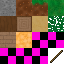
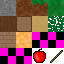
oka

Changed region(s): [[0.5, 0.75, 0.75, 1.0]]

diff --git a/src/rustcraft/game_loop.rs b/src/rustcraft/game_loop.rs
@@ -21,6 +21,10 @@ use crate::prelude::*;
 const TICK_DURATION: Duration = Duration::from_millis(50);
 /// Number of random ticks per chunk per game tick
 const RANDOM_TICK_SPEED: usize = 3;
+/// Sky minimum brightness
+const SKY_MIN_BRIGHTNESS: f32 = 0.4;
+/// Sky color
+const SKY: (f32,f32,f32) = (110./256., 160./256., 240./256.,);
 
 pub enum GameState {
     Inventory {
@@ -60,9 +64,9 @@ pub fn game_loop(display: &mut GLDisplay, data: &mut Data, rdata: &mut RenderDat
 
     unsafe {
         gl::ClearColor(
-            110./256.,
-            160./256.,
-            240./256.,
+            SKY.0,
+            SKY.1,
+            SKY.2,
             1.
         );
         gl::Enable(gl::CULL_FACE);
@@ -84,6 +88,11 @@ pub fn game_loop(display: &mut GLDisplay, data: &mut Data, rdata: &mut RenderDat
     let box_vao = box_vao();
     let lines = LineProgram::new();
     let vign = data.loader.load_texture("assets/vign.png");
+    let prg = Program::load(
+        include_str!("vert.glsl"),
+        include_str!("frag.glsl"),
+        vec!["project","view","transform","uvScale","uvOffset"]
+    );
     
     let mut state = GameState::Playing;
     let mut event_pump = display.event_pump();
@@ -330,18 +339,28 @@ RustCraft dev build
             }
         }
         
-        // START SYSTEMS
+        // ! START SYSTEMS
         if !state.is_paused() {
             WanderingAI::system_update(data);
             Physics::system_update(data);
             FallingBlock::system_collide_land(data);
         }
-        // STOP SYSTEMS
+        // ! STOP SYSTEMS
 
         data.world.refresh(&data.registry);
         data.world.load(&data.registry, 100);
 
-        // START RENDERING
+        // ! START RENDERING
+
+        unsafe {
+            let lf = (data.world.smooth_light_level() * (1. - SKY_MIN_BRIGHTNESS)) + SKY_MIN_BRIGHTNESS;
+            gl::ClearColor(
+                SKY.0 * lf,
+                SKY.1 * lf,
+                SKY.2 * lf,
+                1.
+            );
+        }
 
         chunk_renderer.program.enable();
         unsafe {
@@ -357,14 +376,41 @@ RustCraft dev build
         data.atlas.texture().bind();
         chunk_renderer.load_proj(&Matrix4::from(data.fov));
         chunk_renderer.load_view(&rdata.view_mat);
-        let light = ((data.world.time_of_day() * std::f32::consts::TAU).sin() + 0.5).max(1./16.);
-        chunk_renderer.load_glob_light(light);
+        chunk_renderer.load_glob_light(data.world.smooth_light_level().max(1./16.));
         chunk_renderer.render(&data.world);
 
         // render bounding boxes
         rdata.cube.bind();
         rdata.bbox.bind();
         Position::system_draw_bounding_boxes(data, &chunk_renderer.program, &rdata.cube); // ! change
+
+        // render item in hand
+        if let Ok(pdata) = data.ecs.query_one_mut::<&PlayerData>(data.cam) {
+            if let Some(item) = &pdata.inventory.hotbar[pgui.selected_slot()] {
+                unsafe {
+                    gl::Disable(gl::DEPTH_TEST);
+                }
+                prg.enable();
+                prg.load_mat4(0, &Matrix4::from(data.fov));
+                prg.load_mat4(1, &Matrix4::one());
+                let pos = (0.4, -1.5, -2.).into();
+                let rot = Euler::new(Deg(0.),Deg(-60.),Deg(0.));
+                prg.load_mat4(2, &(Matrix4::from_translation(pos) * Matrix4::from(rot)));
+                data.atlas.bind();
+                match &item.item {
+                    ItemLike::Item(item) => {
+                        data.registry.item_vao.bind();
+                        data.registry.item_vao.draw_6((item.id - data.registry.items_offset) as i32); // hax
+                    }
+                    ItemLike::Block(block) => {
+                        // rdata.cube.draw();
+                    }
+                }
+                unsafe {
+                    gl::Enable(gl::DEPTH_TEST);
+                }
+            }
+        }
 
         // tmp vignette solution
         guirend.start();
@@ -438,7 +484,7 @@ RustCraft dev build
 
         text_rend.render(&debug_text, -0.9, 0.9, display.size());
 
-        // END RENDERING
+        // ! END RENDERING
 
         display.window.gl_swap_window();
 

diff --git a/src/rustcraft/chunk/meshing.rs b/src/rustcraft/chunk/meshing.rs
@@ -41,6 +41,28 @@ impl ChunkRenderer {
     }
 }
 
+/* pub fn square_mesh() -> VAO {
+    let xc = 0;
+    let yc = 1;
+    let zc = 0;
+    let verts = vec![
+        xc, yc, zc,
+        xc, yc, zc+1,
+        xc+1, yc, zc,
+        xc, yc, zc+1,
+        xc+1, yc, zc+1,
+        xc+1, yc, zc,
+    ];
+    let uvs = vec![
+        0., 0.,
+        0., 1.,
+        1., 0.,
+        0., 1.,
+        1., 1.,
+        1., 0.,
+    ];
+} */
+
 pub fn cube_mesh() -> VAO {
     let xc = 0;
     let yc = 1;
@@ -95,30 +117,35 @@ pub fn cube_mesh() -> VAO {
         0., 1.,
         1., 1.,
         1., 0.,
+
         0., 0.,
         1., 0.,
         0., 1.,
         0., 1.,
         1., 0.,
         1., 1.,
+
         0., 0.,
         0., 1.,
         1., 0.,
         0., 1.,
         1., 1.,
         1., 0.,
+
         0., 0.,
         1., 0.,
         0., 1.,
         0., 1.,
         1., 0.,
         1., 1.,
+
         1., 1.,
         1., 0.,
         0., 1.,
         0., 1.,
         1., 0.,
         0., 0.,
+
         1., 1.,
         0., 1.,
         1., 0.,

diff --git a/src/rustcraft/world.rs b/src/rustcraft/world.rs
@@ -135,6 +135,9 @@ impl WorldData {
         self.chunks.get_mut(&pos).filter(|c| c.chunk_state >= ChunkState::Detailed).map(Box::as_mut)
     }
 
+    pub fn smooth_light_level(&self) -> f32 {
+        (self.time_of_day() * std::f32::consts::TAU).sin() + 0.5
+    } 
     pub fn time_of_day(&self) -> f32 {
         (self.ticks as f32 / 200.) % 1.
     }

diff --git a/src/rustcraft/pgui.rs b/src/rustcraft/pgui.rs
@@ -47,6 +47,10 @@ impl GUI {
         self.selected_slot = ((self.selected_slot + scroll) % 9 + 9) % 9
     }
 
+    pub fn selected_slot(&self) -> usize {
+        self.selected_slot as usize
+    }
+
     pub fn determine_hovered_slot(&self, mouse: (i32, i32)) -> Option<u32> {
         let pos = (0i32,0);
         let (w, h) = (900, 700);

diff --git a/src/engine/texture.rs b/src/engine/texture.rs
@@ -22,6 +22,9 @@ impl TextureAtlas {
     pub fn uv_dif(&self) -> f32 {1./self.size as f32}
     pub fn id(&self) -> uint {self.texture.id}
     pub fn texture(&self) -> &Texture {&self.texture}
+    pub fn bind(&self) {
+        self.texture.bind()
+    }
 }
 
 
